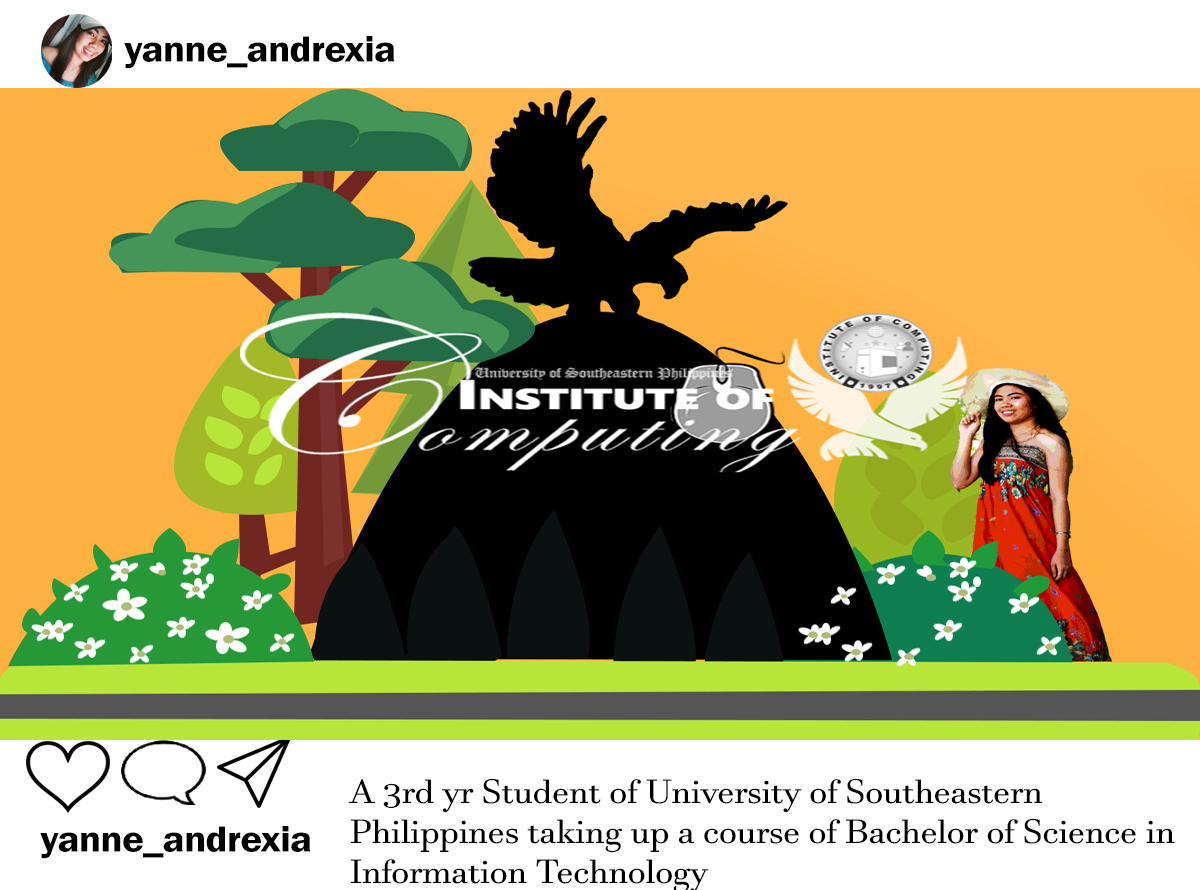
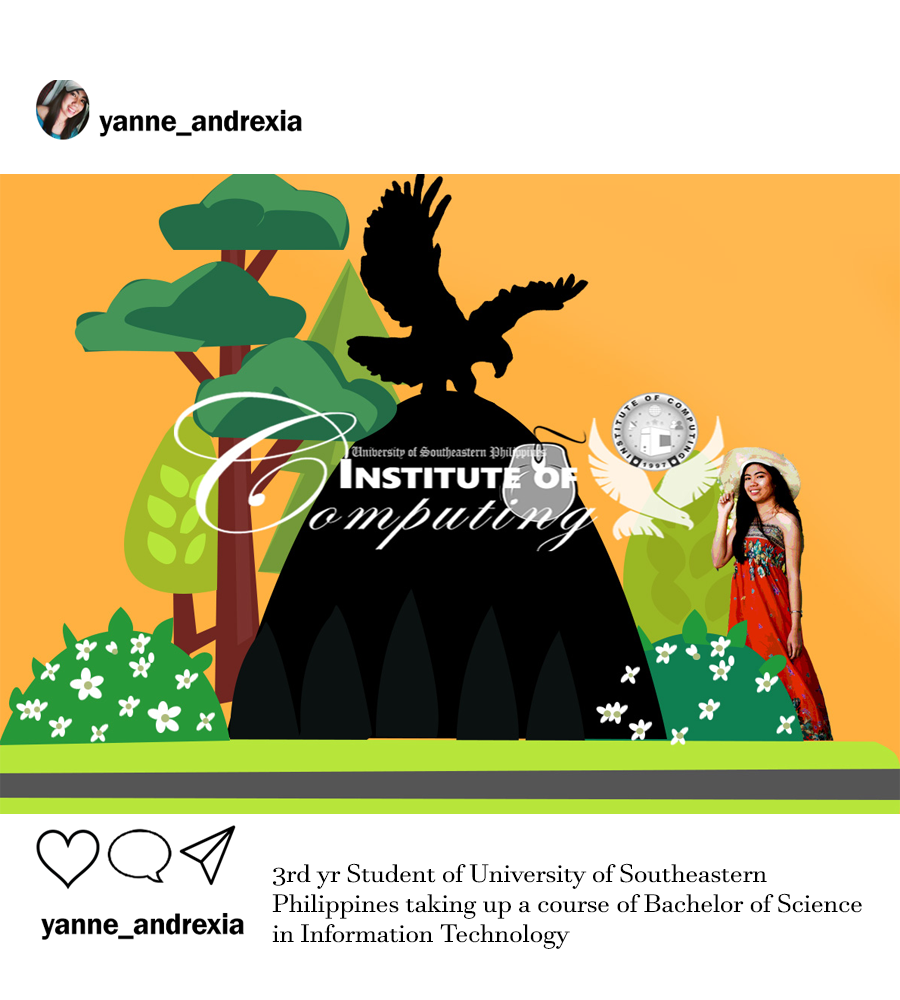
About and Skills Homepage polish

diff --git a/Aboutpage/about.css b/Aboutpage/about.css
@@ -3,7 +3,7 @@ body
 {
 	margin: 0px;
 	padding: 0px;
-	background-color: #80bfff;
+	
 }
 
 #ornfc
@@ -13,7 +13,8 @@ body
 	top: 0px;
 	width: 100%;
 	height: 100%;
-	background-color: #B0E0E6;
+	background-color: #63B5DE;
+	
 }
 
 #ornwall
@@ -24,55 +25,7 @@ body
 	width: 100%;
 	height: 1740px;
 	margin-top: -870px;
-	background-color: #87CEFA;
-}
-
-#loading
-{
-	position: fixed;
-	left: 0px;
-	top: 0px;
-	width: 100%;
-	height: 100%;
-}
-
-#loading-pic-percent-text
-{
-	position: absolute;
-	width: 500px;
-	height: 60px;
-	left: 50%;
-	top: 50%;
-	margin-left: -250px;
-	margin-top: -100px;
-	font-family: frankfurter-plain;
-	color: #ffffff;
-	font-size: 60px;
-	text-align: center;
-}
-
-#loading-pic-percent-bar
-{
-	position: absolute;
-	width: 340px;
-	height: 20px;
-	left: 0px;
-	top: 0px;
-	background-color: #ffb3d1;
-}
-
-#loading-pic-percent-box
-{
-	position: absolute;
-	width: 340px;
-	height: 20px;
-	left: 50%;
-	top: 50%;
-	margin-left: -170px;
-	margin-top: -10px;
-	border-radius: 10px;
-	background-color: #800033;
-	overflow: hidden;
+	
 }
 
 #design-lamp
@@ -262,14 +215,14 @@ img
 .illustration
 {
 	position: relative;
-	width: 1230px;
+	width: 900px;
 	display: table; /*to make height wrap content*/
 	padding-left: 30px;
+	padding-right: 30px;
 	padding-top: 30px;
 	margin-left: auto;
 	margin-right: auto;
 	margin-bottom: 60px;
 	border-radius: 50px;
-	background-color: #e600e6;
+	background-color: #808080;
 }
-

diff --git a/Aboutpage/AboutMe.html b/Aboutpage/AboutMe.html
@@ -11,13 +11,6 @@
 			<div id="ornfc"></div> 
 			<div id="ornwall"></div>
 
-			<div id="loading">
-				<div id="loading-pic-percent-text">LOADING 100%</div>
-				<div id="loading-pic-percent-box">
-					<div id="loading-pic-percent-bar"></div>
-				</div>
-			</div>
-
 
 		<div id="design-container">
 			

diff --git a/Homepage/style.css b/Homepage/style.css
@@ -26,7 +26,6 @@ header {
      margin-left: auto;
      margin-right: auto;
      background-color: #505050;
-     font-family: "Arial" ;
 }
 
 #title-noemi{
